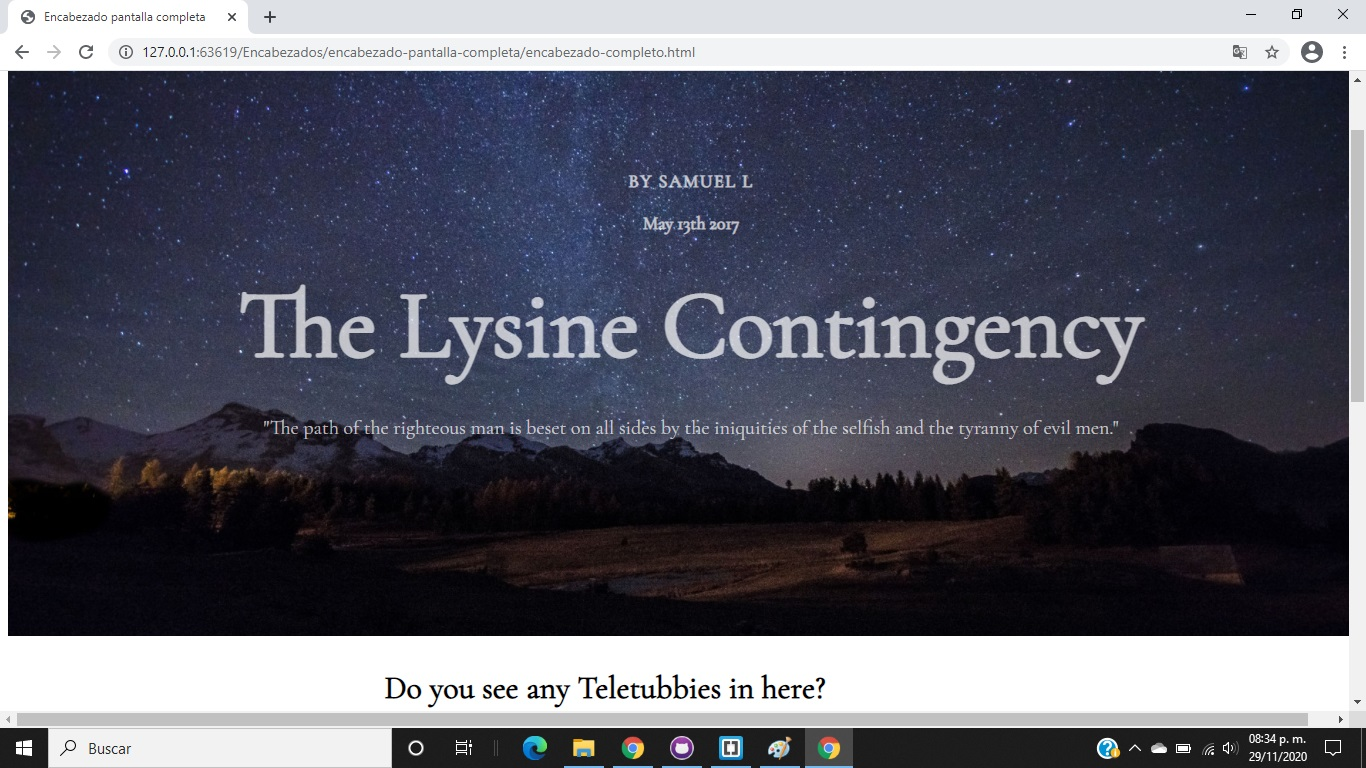
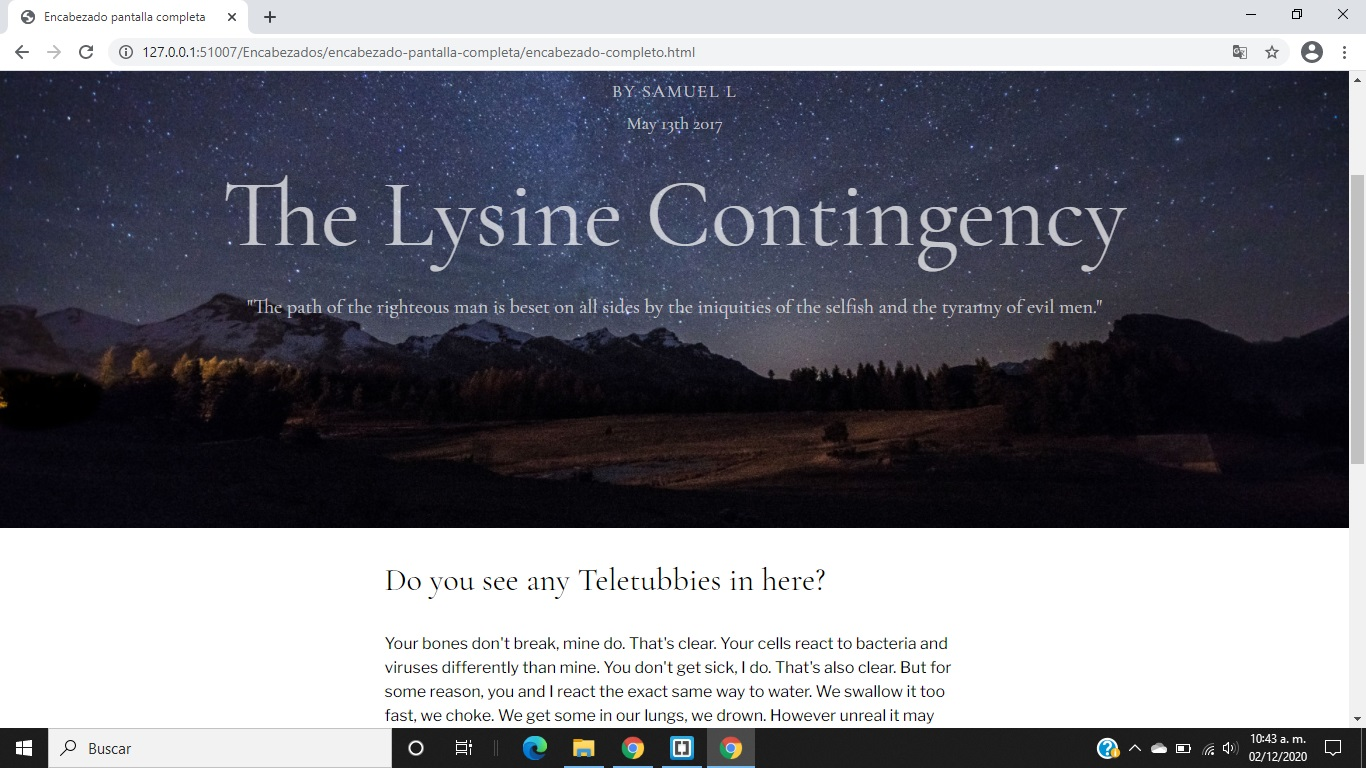
Se modificó el encabezado de pantalla completa

diff --git a/Encabezados/encabezado-pantalla-completa/encabezado-completo.html b/Encabezados/encabezado-pantalla-completa/encabezado-completo.html
@@ -5,6 +5,7 @@
     <meta charset="utf-8">
     <meta name="viewport" content="width=device-width, initial-scale=1.0">
     <title>Encabezado pantalla completa</title>
+    <link rel="stylesheet" href="https://cdnjs.cloudflare.com/ajax/libs/meyer-reset/2.0/reset.css">
     <link rel="stylesheet" type="text/css" href="encabezado-completo.css">
     <link href="https://fonts.googleapis.com/css?family=Cormorant+Garamond%7CLibre+Franklin" rel="stylesheet">
   </head>

diff --git a/Encabezados/encabezado-pantalla-completa/encabezado-completo.css b/Encabezados/encabezado-pantalla-completa/encabezado-completo.css
@@ -10,7 +10,7 @@
   background: url('https://orange.codeberryschool.com/content/images/project-assets/page-header-bg.jpg') no-repeat center;
   background-size: cover;
   height: 100vh;
-  width: 100vw;
+  width: 98.82vw;
   color: hsla(0,0%,100%,.7);
   font-family: 'Cormorant Garamond', serif;
   text-align: center;
